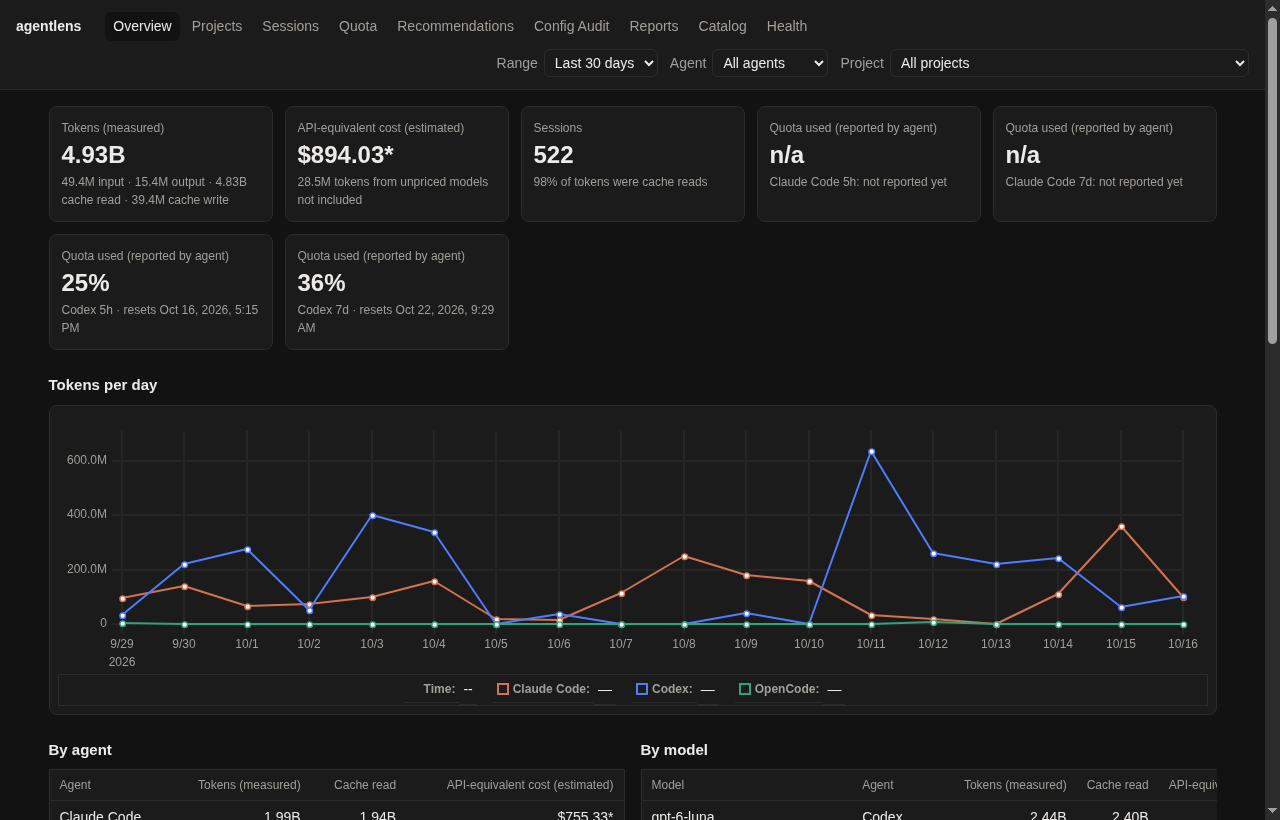
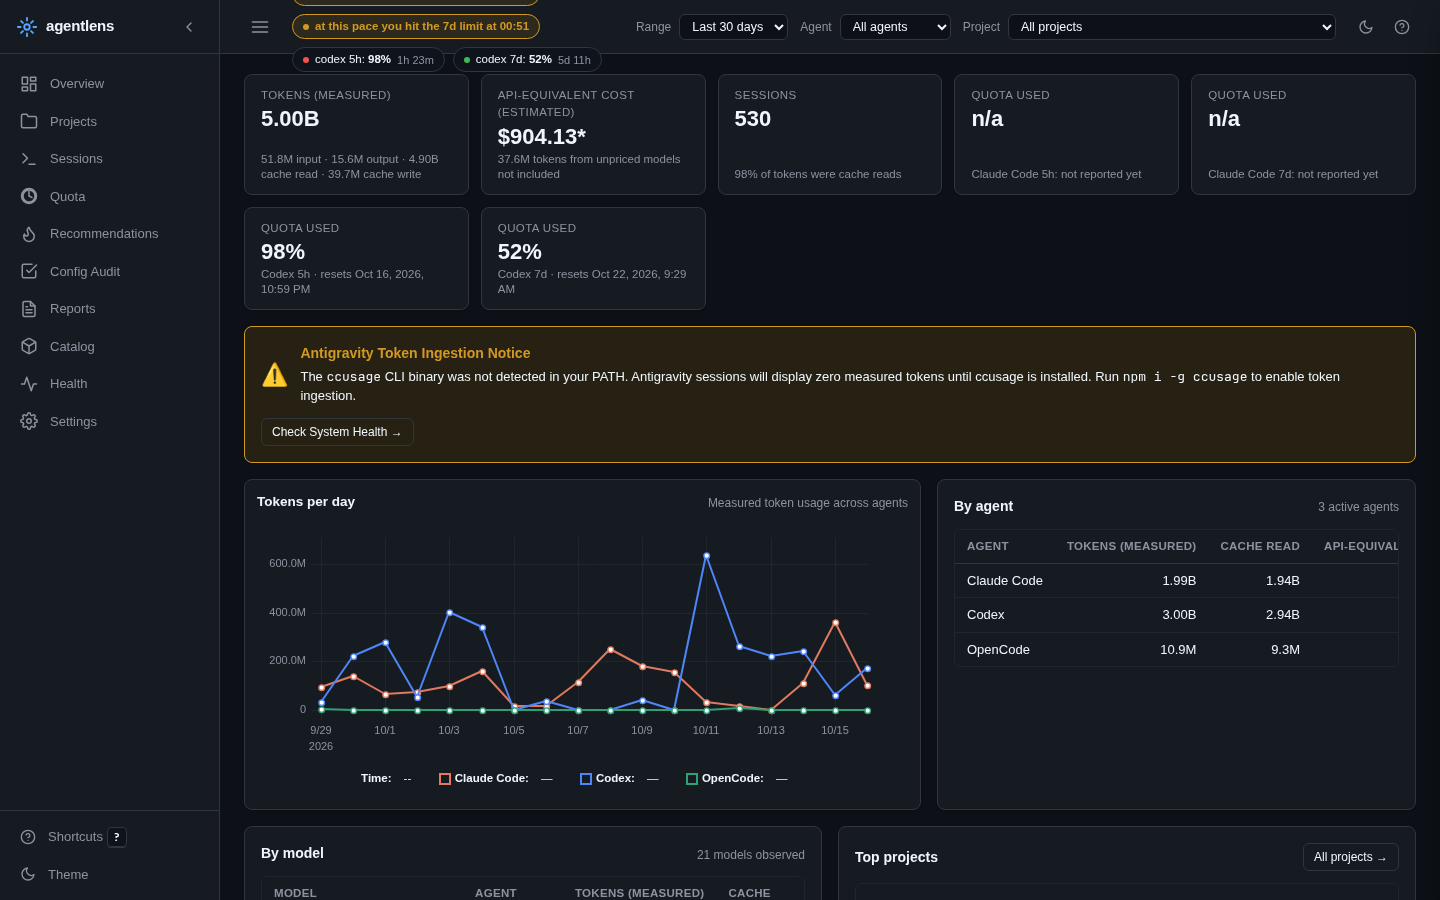
docs: update README capabilities, CLI reference, and screenshots for roadmap release

diff --git a/README.md b/README.md
@@ -4,13 +4,16 @@
 [![Node.js](https://img.shields.io/badge/node-%3E%3D22.18-brightgreen.svg)](https://nodejs.org)
 [![Zero Dependencies](https://img.shields.io/badge/dependencies-0-success.svg)](package.json)
 [![Privacy First](https://img.shields.io/badge/privacy-local--first-orange.svg)](#privacy--security-guarantees)
-[![Tests Passing](https://img.shields.io/badge/tests-153%20passing-success.svg)](test/)
+[![Tests Passing](https://img.shields.io/badge/tests-191%20passing-success.svg)](test/)
 
 **agentlens** is a lightweight, local-first, cross-platform usage and workflow optimizer for AI coding agents on Linux, macOS, and Windows:
 - **Claude Code** (Pro)
 - **Codex** (Plus)
 - **OpenCode** (Go)
 - **Antigravity** (Pro)
+- **Gemini CLI**
+- **Aider**
+- **Cursor**
 
 It monitors how you use AI coding agents to **save tokens, avoid hitting subscription usage limits, and eliminate repetitive agent workflows** — globally and per project.
 
@@ -20,14 +23,21 @@ It monitors how you use AI coding agents to **save tokens, avoid hitting subscri
 
 ## ⚡ Key Capabilities
 
-* **Unified Usage Dashboard:** Historical and continuous token consumption, session replays, model tier breakdowns, per-project costs, and active quotas.
-* **Quota Guard & Statusline:** Live 5-hour and 7-day rate-limit tracking for Claude Code (< 10ms latency) and Codex with reset countdowns and limit warnings.
-* **Workflow Waste Detectors:** 10 deterministic analyzers that detect retry loops, repetitive file reads, runaway context growth, idle cache misses, large tool dumps, and model mismatch.
-* **Configuration Audit:** Scans global and project instructions (`CLAUDE.md`, `AGENTS.md`, `GEMINI.md`), MCP servers, skills, and plugins. Calculates fixed session token overhead and detects unused (30d), duplicate, or conflicting configurations.
-* **Smart Recommendations & Curated Catalog:** Synthesizes findings into ranked, copyable actions enriched with vetted open-source tools from `catalog.yaml`.
+* **Unified Usage Dashboard (Fluid & Responsive):** Fluid full-width 12-column responsive layout, dense KPI bar, side-by-side uPlot canvas charts, dark/light token design system, collapsible sidebar, and slide-over drawers.
+* **"Fix Now" Project Action Runner:** Instant project fix panel ranking open recommendations by tokens saved, with one-click copyable prompts and opt-in "Send to agent" CLI dispatch (`claude`, `codex`, `opencode`) capturing live `git diff --stat`.
+* **Quota Forecasting & Live Statusline:** Burn rate extrapolation projecting 5-hour and 7-day rate-limit exhaustion times before reset (< 10ms latency in statusline, CLI status, and dashboard top bar).
+* **Live Desktop Alerts:** Proactive notifications during `serve` for active retry loops, quota exhaustion predicted within 30 minutes, or project budgets crossing 80%/100%.
+* **Per-Project Weekly Budgets:** Configurable weekly token and cost targets per project with visual progress bars and weekly report integration.
+* **Cross-Agent Quota Balancing:** Evaluates quota headroom across agents to recommend optimal agent switching.
+* **14 Workflow Waste Detectors:** Deterministic detectors covering retry loops, repetitive file reads, context runaway, idle cache misses, large tool dumps, model mismatch, git outcome efficiency, abandoned sessions, compaction churn, and reasoning overuse.
+* **Interactive Session Turn Timeline:** Per-turn stacked token charts (input, output, cache-read) with clickable detector event markers and finding slide-over views.
+* **Instruction Trimmer:** Generates non-destructive unified diffs proposing cuts for duplicate lines, conflicting rules, oversized code blocks, and stale paths across `CLAUDE.md`, `AGENTS.md`, and `GEMINI.md`.
+* **Configuration Audit:** Scans global and project instructions, MCP servers, skills, and plugins. Calculates fixed session token overhead and detects unused (30d), duplicate, or conflicting configurations.
+* **Smart Recommendations & Curated Catalog:** Synthesizes findings into ranked actions enriched with vetted open-source tools from `catalog.yaml`.
 * **Automated Weekly Usage Reports:** Generates comprehensive Monday reports in GitHub-flavored Markdown and standalone dark/light HTML (`<dataDir>/reports/`), with native desktop notifications across Linux (`notify-send`), macOS (`osascript`), and Windows (PowerShell toast).
 * **Improvement Tracking with Quality Guardrails:** Tracks accepted recommendations across 14-day before/after windows, verifying real token savings while ensuring error rates and interaction turns don't regress.
-* **Opt-In Tool Discovery:** Searches GitHub for relevant agent tools and MCPs using generic search queries without transmitting private code or prompts.
+* **Flexible Exports & Prometheus Metrics:** CLI exporter (`agentlens export --format csv|json`), `GET /api/export.csv`, Prometheus `GET /metrics` text endpoint, and in-dashboard CSV table downloads.
+* **Multi-Platform Reach:** Full Linux, macOS (`launchd`, `osascript`), and Windows (`schtasks`) support with graceful Antigravity degradation and adapters for Gemini CLI, Aider, and Cursor.
 
 ---
 
@@ -64,13 +74,16 @@ flowchart TD
         CX["Codex\nSessions JSONL"]
         OC["OpenCode\nopencode.db (Multi-root)"]
         AG["Antigravity\nconversation_summaries.db"]
+        GM["Gemini CLI\nChats & Turn Logs"]
+        AI["Aider\nChat History & Analytics"]
+        CR["Cursor\nstate.vscdb Composer Logs"]
     end
 
     subgraph CoreEngine["agentlens Core Engine (Zero External Deps)"]
         Adapters["Streaming Log & SQLite Adapters"]
         DB[("agentlens.db\n(node:sqlite)")]
-        Detectors["10 Workflow Waste Detectors"]
-        Audit["Configuration Audit Scanners"]
+        Detectors["14 Workflow Waste Detectors"]
+        Audit["Config Audit & Instruction Trimmer"]
         Catalog["Curated Catalog\n(catalog.yaml)"]
         Reports["Weekly Report Generator\n(Markdown & HTML)"]
         Tracker["14-Day Improvement Tracker\n(with Quality Guardrails)"]
@@ -78,9 +91,10 @@ flowchart TD
 
     subgraph Outputs["Interfaces & Outputs"]
         Statusline["Live Statusline\n(< 10ms)"]
-        CLI["agentlens CLI\n(status, audit, report, track, discover)"]
+        CLI["agentlens CLI\n(status, audit, report, track, export, discover)"]
         WebUI["Local Web Dashboard\n(http://127.0.0.1:4711)"]
         Service["Background Service\n(systemd / launchd / schtasks)"]
+        Metrics["Prometheus & CSV Exports\n(/metrics, /api/export.csv)"]
     end
 
     AgentSources --> Adapters
@@ -92,6 +106,7 @@ flowchart TD
     DB --> Reports
     DB --> WebUI
     DB --> CLI
+    DB --> Metrics
     Statusline --> CC
     Service --> Adapters
 ```
@@ -216,6 +231,7 @@ Add the printed snippet to `~/.claude/settings.json` (or `%USERPROFILE%\.claude\
 |---|---|
 | `agentlens serve` | Continuously ingest agent data and serve dashboard on `http://127.0.0.1:4711` |
 | `agentlens ingest` | Perform an incremental backfill of all 4 agents into SQLite and exit |
+| `agentlens export [--format csv\|json] [--type sessions\|daily\|findings] [--from <date>] [--to <date>] [--project <path>]` | Export session history, daily aggregates, or waste findings to CSV or JSON |
 | `agentlens status [--project <path>]` | Terminal summary of token usage, estimated costs, and active quotas |
 | `agentlens audit [--project <path>]` | Audit instruction overhead, unused MCPs/skills, duplicates, and conflicts |
 | `agentlens report [--week YYYY-Www] [--html] [--json]` | Generate and display weekly usage report |
@@ -234,7 +250,7 @@ Add the printed snippet to `~/.claude/settings.json` (or `%USERPROFILE%\.claude\
 agentlens is engineered from the ground up to respect developer privacy and system security:
 - **Strictly Read-Only on Agent Files:** Agent log files and SQLite databases are opened with read-only flags (`mode=ro`). agentlens **never** modifies agent configurations, installs tools, or alters session histories.
 - **Zero Raw Prompt or Output Storage:** Prompt text and tool outputs are never persisted to disk. Only SHA-256 hashes and byte lengths are recorded for repetition detection.
-- **Strict Network Isolation:** Dashboard binds exclusively to loopback (`127.0.0.1`) with DNS rebinding host protection. No analytics, telemetry, or external AI model calls are made.
+- **Strict Network Isolation:** Dashboard binds exclusively to loopback (`127.0.0.1`) with DNS rebinding host protection. Metrics (`/metrics`) and CSV exports (`/api/export.csv`) are strictly loopback-only. No analytics, telemetry, or external AI model calls are made.
 - **Zero Agent Token Allowance:** agentlens never injects prompt instructions or SessionStart hooks into active coding sessions.
 - **Privacy-Safe Discovery:** The optional GitHub discovery engine operates strictly on generic alphanumeric keyword queries. Local paths, project names, or token metrics are never transmitted.
 - **Opt-In Agent Automation (`Fix Now`):** Executing automated fixes via local agent CLIs (`claude`, `codex`, `opencode`) is strictly opt-in and disabled by default until explicitly enabled in Settings (`Allow agentlens to launch agents`). All CLI commands require confirmation displaying the exact command array and verified project folder, and are executed via direct `execFile`/`spawn` argument arrays (never a shell string) restricted solely to repositories already tracked by agentlens.
@@ -280,7 +296,10 @@ agentlens performs read-only discovery of logs and session databases across Linu
 | **Claude Code** | • `CLAUDE_CONFIG_DIR`<br>• `<home>/.claude/projects/*/*.jsonl`<br>*(Identical structure on Linux, macOS, and `%USERPROFILE%\.claude\projects` on Windows)* | Input, output, reasoning, cache read/write (5m/1h) | Live 5h / 7d percentage & resets |
 | **Codex** | • `CODEX_HOME`<br>• `<home>/.codex/sessions/YYYY/MM/DD/rollout-*.jsonl`<br>*(Identical structure on Linux, macOS, and `%USERPROFILE%\.codex\sessions` on Windows)* | Input (deduped cache), output, reasoning, cache read | 5h / 7d rate limits from session events |
 | **OpenCode** | Multi-root candidate discovery searching for `opencode.db` in priority order:<br>1. **Linux**: `~/.local/share/opencode` (or `$XDG_DATA_HOME/opencode`)<br>2. **macOS**: `~/Library/Application Support/opencode`<br>3. **Windows**: `%APPDATA%\opencode` and `%LOCALAPPDATA%\opencode`<br>*(Config audit also scans `~/.config/opencode`, `~/Library/Application Support/opencode`, and `%APPDATA%\opencode` for `opencode.json`)* | Messages, tokens (input/output/reasoning/cache), tools | Session metrics (`n/a` for quota) |
-| **Antigravity** | SQLite conversation summary database searched in priority order:<br>1. `<home>/.gemini/antigravity-cli/conversation_summaries.db`<br>2. `<home>/.gemini/antigravity/conversation_summaries.db`<br>*(Standard under user home directory on Linux, macOS, and Windows)* | Sessions, workspace roots, ccusage bridge | Session metrics (`n/a` for quota) |
+| **Antigravity** | SQLite conversation summary database searched in priority order:<br>1. `<home>/.gemini/antigravity-cli/conversation_summaries.db`<br>2. `<home>/.gemini/antigravity/conversation_summaries.db`<br>*(Standard under user home directory on Linux, macOS, and Windows; degrades gracefully with dashboard warning when `ccusage` is absent)* | Sessions, workspace roots, ccusage bridge | Session metrics (`n/a` for quota) |
+| **Gemini CLI** | Chat and turn session JSON logs searched across:<br>• `<home>/.gemini/tmp/*` and `<home>/.gemini/antigravity-cli/*` | Input, output, reasoning, cached tokens | Session metrics (`n/a` for quota) |
+| **Aider** | Chat logs and telemetry searched across workspace roots:<br>• `.aider.chat.history.md`<br>• `.aider.input.history`<br>• `.aider.analytics.jsonl` | Session history, tokens, estimated cost | Session metrics (`n/a` for quota) |
+| **Cursor** | SQLite composer state database (`state.vscdb`) searched in priority order:<br>1. **Linux**: `~/.config/Cursor/User/globalStorage/state.vscdb`<br>2. **macOS**: `~/Library/Application Support/Cursor/User/globalStorage/state.vscdb`<br>3. **Windows**: `%APPDATA%\Cursor\User\globalStorage\state.vscdb` | Composer prompts, token counters, models | Session metrics (`n/a` for quota) |
 
 ---
 
@@ -299,7 +318,7 @@ agentlens performs read-only discovery of logs and session databases across Linu
 ## 🧪 Testing & Verification
 
 ```bash
-# Run test suite (153 unit & integration tests)
+# Run test suite (191 unit & integration tests)
 npm test
 
 # Run TypeScript typecheck
